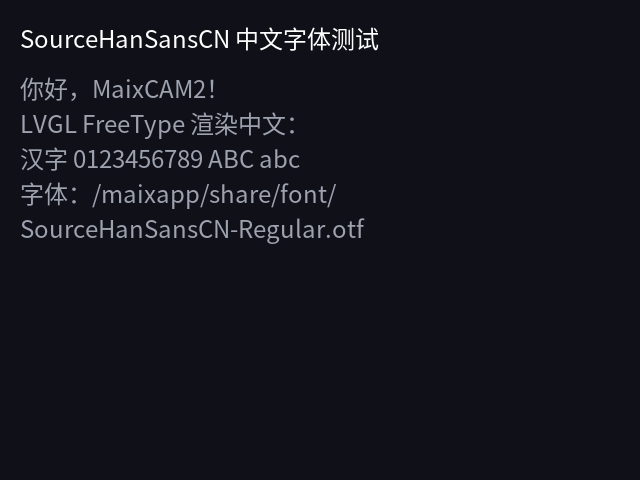
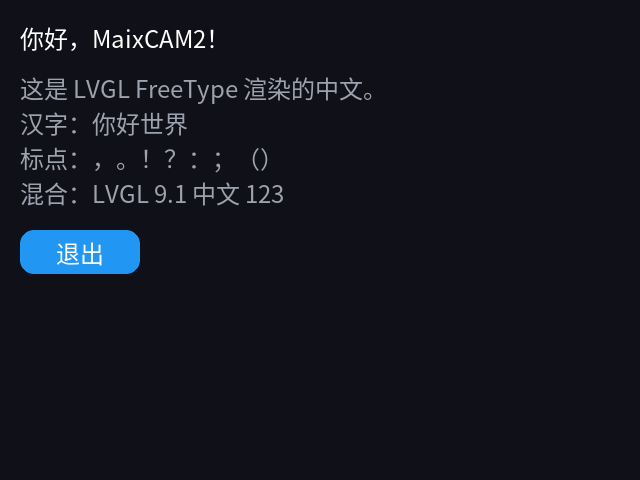
Adjust CJK example button position and screenshot

Changed region(s): [[0.0312, 0.3125, 0.5625, 0.5938], [0.0312, 0.1562, 0.5938, 0.2812], [0.0312, 0.0625, 0.5938, 0.125]]

diff --git a/README.md b/README.md
@@ -77,28 +77,98 @@ With `MAIXPY_DEBUG_IMAGES=1` the demo auto-advances the pages, exits after
 
 LVGL's built-in Montserrat fonts only cover Latin.  The build enables
 `LV_USE_FREETYPE` (see `tools/patch_maixcdk.py`) and links MaixCDK's
-`freetype` component, so device fonts can be loaded at runtime:
+`freetype` component, so device fonts can be loaded at runtime.
+
+Complete example (run on the device):
 
 ```python
-font = lv.freetype_font_create(
-    "/maixapp/share/font/SourceHanSansCN-Regular.otf",
-    0,      # LV_FREETYPE_FONT_RENDER_MODE_BITMAP
-    24,     # pixel size
-    0,      # LV_FREETYPE_FONT_STYLE_NORMAL
-)
-label = lv.label(lv.screen_active())
-label.set_text("你好，MaixCAM2！")
-label.set_style_text_font(font, 0)
-# ... run lv.timer_handler() ...
-label.delete()
-font.freetype_font_delete()
+import time
+
+from maix import app, display, touchscreen
+
+import maix_lvgl as lv
+
+FONT = "/maixapp/share/font/SourceHanSansCN-Regular.otf"
+
+
+def main():
+    disp = display.Display()
+    ts = touchscreen.TouchScreen()
+    running = [True]
+    font = None
+    try:
+        lv.init(disp, ts)
+        scr = lv.screen_active()
+        scr.set_style_bg_color(lv.color_hex(0x101018), 0)
+        scr.set_style_bg_opa(lv.OPA.COVER, 0)
+
+        # lv_init() already initializes FreeType, and lv_deinit() cleans it
+        # up.  Do not call lv.freetype_init()/lv.freetype_uninit() manually.
+        font = lv.freetype_font_create(
+            FONT,
+            0,      # LV_FREETYPE_FONT_RENDER_MODE_BITMAP
+            24,     # pixel size
+            0,      # LV_FREETYPE_FONT_STYLE_NORMAL
+        )
+        if font is None:
+            raise RuntimeError("cannot load " + FONT)
+
+        title = lv.label(scr)
+        title.set_text("你好，MaixCAM2！")
+        title.set_style_text_font(font, 0)
+        title.set_style_text_color(lv.color_hex(0xFFFFFF), 0)
+        title.set_pos(20, 20)
+
+        body = lv.label(scr)
+        body.set_text(
+            "这是 LVGL FreeType 渲染的中文。\n"
+            "汉字：你好世界\n"
+            "标点：，。！？：；（）\n"
+            "混合：LVGL 9.1 中文 123"
+        )
+        body.set_style_text_font(font, 0)
+        body.set_style_text_color(lv.color_hex(0x9CA3AF), 0)
+        body.set_pos(20, 70)
+
+        def on_exit(event):
+            running[0] = False
+
+        button = lv.button(scr)
+        button.set_pos(20, 230)
+        button.set_size(120, 44)
+        button.add_event_cb(on_exit, lv.EVENT.CLICKED, None)
+        button_label = lv.label(button)
+        button_label.set_text("退出")
+        button_label.set_style_text_font(font, 0)
+        button_label.center()
+
+        while not app.need_exit() and running[0]:
+            lv.timer_handler()
+            time.sleep(0.005)
+
+        # Delete widgets that use the font first, then the font itself.
+        button.delete()
+        body.delete()
+        title.delete()
+        font.freetype_font_delete()
+        font = None
+    finally:
+        if font is not None:
+            font.freetype_font_delete()
+        lv.deinit()
+        ts.close()
+        disp.close()
+
+
+if __name__ == "__main__":
+    main()
 ```
 
 Notes:
 
-- `lv_init()` already initializes FreeType and `lv_deinit()` cleans it up.
-  Do not call `lv.freetype_init()` / `lv.freetype_uninit()` yourself;
-  double cleanup makes `lv_deinit()` hang.
+- `lv_init()` initializes FreeType and `lv_deinit()` cleans it up.  Calling
+  `lv.freetype_init()` / `lv.freetype_uninit()` manually and then `lv.deinit()`
+  makes cleanup run twice and can hang.
 - Delete widgets that use the font before `font.freetype_font_delete()`.
 - The Source Han font is ~8.3 MB; create it on demand.  The glyph cache is
   `LV_FREETYPE_CACHE_SIZE` (768 KB by default).

diff --git a/README_ZH.md b/README_ZH.md
@@ -75,27 +75,98 @@ python showcase.py
 
 LVGL 内置的 Montserrat 字体只覆盖拉丁字符。构建时会启用 `LV_USE_FREETYPE`
 （见 `tools/patch_maixcdk.py`）并链接 MaixCDK 的 `freetype` 组件，因此可以在
-运行时加载设备字体：
+运行时加载设备字体。
+
+完整可运行示例（在设备上执行）：
 
 ```python
-font = lv.freetype_font_create(
-    "/maixapp/share/font/SourceHanSansCN-Regular.otf",
-    0,      # LV_FREETYPE_FONT_RENDER_MODE_BITMAP
-    24,     # 像素高度
-    0,      # LV_FREETYPE_FONT_STYLE_NORMAL
-)
-label = lv.label(lv.screen_active())
-label.set_text("你好，MaixCAM2！")
-label.set_style_text_font(font, 0)
-# ... 运行 lv.timer_handler() ...
-label.delete()
-font.freetype_font_delete()
+import time
+
+from maix import app, display, touchscreen
+
+import maix_lvgl as lv
+
+FONT = "/maixapp/share/font/SourceHanSansCN-Regular.otf"
+
+
+def main():
+    disp = display.Display()
+    ts = touchscreen.TouchScreen()
+    running = [True]
+    font = None
+    try:
+        lv.init(disp, ts)
+        scr = lv.screen_active()
+        scr.set_style_bg_color(lv.color_hex(0x101018), 0)
+        scr.set_style_bg_opa(lv.OPA.COVER, 0)
+
+        # lv_init() 已经初始化 FreeType，lv_deinit() 会自动清理。
+        # 不要再手动调用 lv.freetype_init()/lv.freetype_uninit()。
+        font = lv.freetype_font_create(
+            FONT,
+            0,      # LV_FREETYPE_FONT_RENDER_MODE_BITMAP
+            24,     # 像素高度
+            0,      # LV_FREETYPE_FONT_STYLE_NORMAL
+        )
+        if font is None:
+            raise RuntimeError("无法加载 " + FONT)
+
+        title = lv.label(scr)
+        title.set_text("你好，MaixCAM2！")
+        title.set_style_text_font(font, 0)
+        title.set_style_text_color(lv.color_hex(0xFFFFFF), 0)
+        title.set_pos(20, 20)
+
+        body = lv.label(scr)
+        body.set_text(
+            "这是 LVGL FreeType 渲染的中文。\n"
+            "汉字：你好世界\n"
+            "标点：，。！？：；（）\n"
+            "混合：LVGL 9.1 中文 123"
+        )
+        body.set_style_text_font(font, 0)
+        body.set_style_text_color(lv.color_hex(0x9CA3AF), 0)
+        body.set_pos(20, 70)
+
+        def on_exit(event):
+            running[0] = False
+
+        button = lv.button(scr)
+        button.set_pos(20, 230)
+        button.set_size(120, 44)
+        button.add_event_cb(on_exit, lv.EVENT.CLICKED, None)
+        button_label = lv.label(button)
+        button_label.set_text("退出")
+        button_label.set_style_text_font(font, 0)
+        button_label.center()
+
+        while not app.need_exit() and running[0]:
+            lv.timer_handler()
+            time.sleep(0.005)
+
+        # 先删除使用该字体的控件，再删除字体。
+        button.delete()
+        body.delete()
+        title.delete()
+        font.freetype_font_delete()
+        font = None
+    finally:
+        if font is not None:
+            font.freetype_font_delete()
+        lv.deinit()
+        ts.close()
+        disp.close()
+
+
+if __name__ == "__main__":
+    main()
 ```
 
 说明：
 
-- `lv_init()` 已经初始化 FreeType，`lv_deinit()` 会自动清理。不要再手动调用
-  `lv.freetype_init()` / `lv.freetype_uninit()`，重复清理会让 `lv_deinit()` 挂起。
+- `lv_init()` 会初始化 FreeType，`lv_deinit()` 会自动清理。手动调用
+  `lv.freetype_init()` / `lv.freetype_uninit()` 后再 `lv.deinit()` 会重复清理，
+  可能导致挂起。
 - 先删除使用该字体的控件，再调用 `font.freetype_font_delete()`。
 - 思源黑体约 8.3 MB，按需创建；字形缓存由 `LV_FREETYPE_CACHE_SIZE`
   控制（默认 768 KB）。
